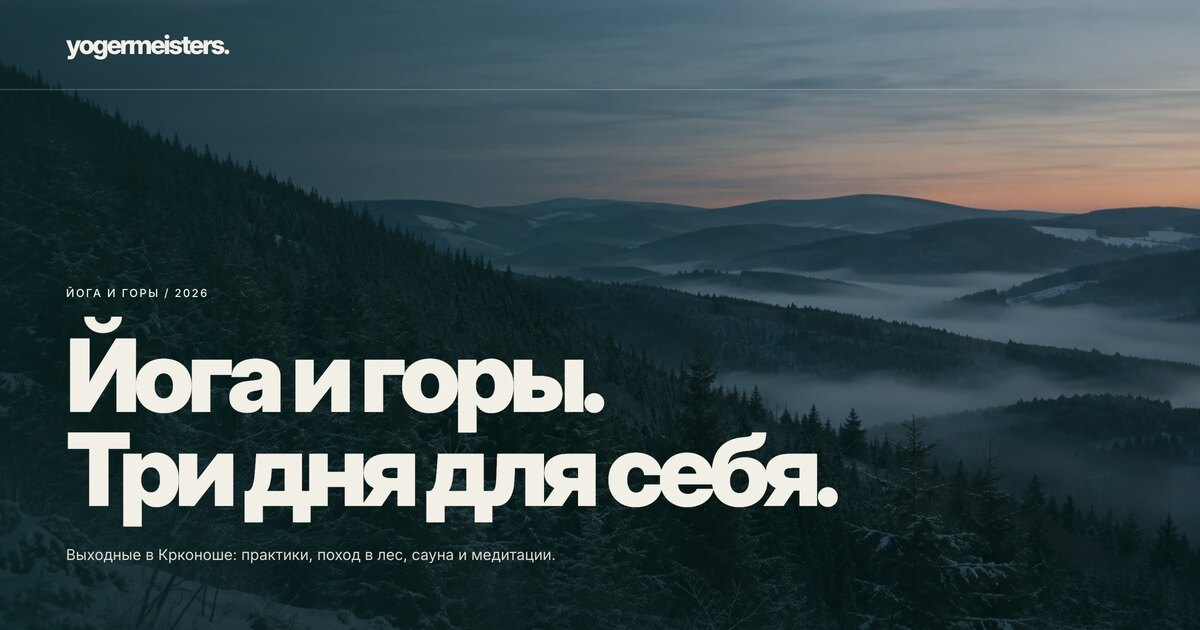
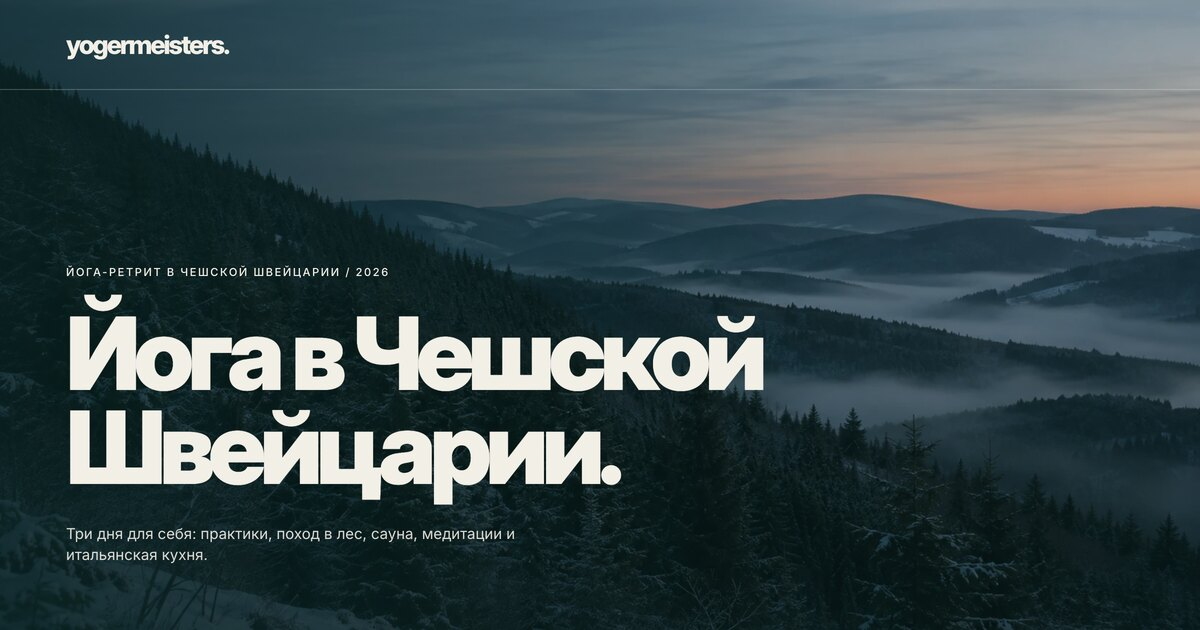
feat: rename Czech retreat to Bohemian Switzerland and update price and meals

Changed region(s): [[0.0308, 0.4222, 0.7092, 0.9048]]

diff --git a/shared/retreats/mountains-experience.ts b/shared/retreats/mountains-experience.ts
@@ -28,11 +28,11 @@ function day(
 }
 
 export const mountainsRussianExperience: RetreatExperience = {
-  priceOffer: { regularPrice: '6,399 CZK', label: 'Early bird', note: '5,699 CZK вместо 6,399 CZK - цена по предложению' },
-  heroTitle: 'Йога и горы.\nТри дня для себя.',
-  heroText: 'Выходные в Крконоше: практики, поход в лес, сауна и медитации.',
-  introTitle: 'В горы.\nК себе.',
-  introText: 'Утром - йога и пранаяма, днём - лес и время для себя, вечером - сауна, дыхание и медитация.',
+  priceOffer: { regularPrice: '€350', label: 'Early bird', note: '€275 вместо €350 - цена по предложению' },
+  heroTitle: 'Йога в Чешской\nШвейцарии.',
+  heroText: 'Три дня для себя: практики, поход в лес, сауна, медитации и итальянская кухня.',
+  introTitle: 'Перезагрузка\nна природе',
+  introText: 'Утром - йога и пранаяма, днём - лес и время для себя, вечером - сауна, дыхание и медитация. А за столом - итальянская кухня.',
   reasons: [
     {
       title: 'Поход и практика в лесу',
@@ -51,7 +51,7 @@ export const mountainsRussianExperience: RetreatExperience = {
     },
   ],
   stayTitle: 'Где будем жить',
-  stayText: 'Живём в горах Крконоше. Проживание входит в стоимость, подробности о доме и размещении расскажу в Telegram.',
+  stayText: 'Живём в Рыбниште (Rybniště), в Чешской Швейцарии. Проживание входит в стоимость, подробности о доме и размещении расскажу в Telegram.',
   stayImages: [
     photo('moon', 'Молодая луна над тёмным горным хребтом'),
     photo('dreamcatcher', 'Ловец снов в каплях росы, за ним туманный луг и лес'),
@@ -61,7 +61,7 @@ export const mountainsRussianExperience: RetreatExperience = {
     included: [
       'Проживание.',
       'Все практики йоги, пранаямы и медитации по программе.',
-      'Питание по программе: ужин, обед и два завтрака.',
+      'Питание с акцентом на итальянскую кухню: два ужина, обед и два завтрака.',
       'Поход и практика в лесу.',
       'Сауна, аюрведическая практика красоты и молодости.',
     ],
@@ -81,6 +81,7 @@ export const mountainsRussianExperience: RetreatExperience = {
       ['14:00', 'Обед.'],
       ['День', 'Время для себя.'],
       ['17:00', 'Сауна, аюрведическая практика красоты и молодости, теория.'],
+      ['Вечер', 'Ужин.'],
       ['20:40', 'Дыхательная практика, психо-энергетическая практика.'],
     ]),
     day('closing', '2026-12-13', 'Закрытие', video('pranayama', 'Участницы ретрита выполняют пранаяму'), [
@@ -90,17 +91,17 @@ export const mountainsRussianExperience: RetreatExperience = {
     ]),
   ],
   bookingTitle: 'Едешь\nс нами?',
-  bookingText: 'Встречаемся в Крконоше 11-13 декабря. Напиши мне в Telegram, расскажу о местах и размещении. Оставляю за собой право менять программу :)',
-  bookingSteps: ['Напиши в Telegram: «Хочу в горы».', 'Уточни наличие мест и размещение.', 'Получи условия оплаты и подтверждение бронирования.'],
-  bookingNote: 'Early bird - 5,699 CZK, обычная цена - 6,399 CZK. Программа может меняться.',
+  bookingText: 'Встречаемся в Чешской Швейцарии 11-13 декабря. Напиши мне в Telegram, расскажу о местах и размещении. Оставляю за собой право менять программу :)',
+  bookingSteps: ['Напиши в Telegram: «Хочу в Чешскую Швейцарию».', 'Уточни наличие мест и размещение.', 'Получи условия оплаты и подтверждение бронирования.'],
+  bookingNote: 'Early bird - €275, обычная цена - €350. Программа может меняться.',
 };
 
 export const mountainsEnglishExperience: RetreatExperience = {
-  priceOffer: { regularPrice: '6,399 CZK', label: 'Early bird', note: '5,699 CZK instead of 6,399 CZK with our' },
-  heroTitle: 'Yoga and mountains.\nThree days for you.',
-  heroText: 'A weekend in Krkonose: yoga, a forest hike, sauna and meditation.',
-  introTitle: 'To the mountains.\nBack to yourself.',
-  introText: 'Yoga and pranayama in the morning, forest and free time by day, sauna, breathwork and meditation in the evening.',
+  priceOffer: { regularPrice: '€350', label: 'Early bird', note: '€275 instead of €350 with our' },
+  heroTitle: 'Yoga in Bohemian\nSwitzerland.',
+  heroText: 'Three days for yourself: yoga, a forest hike, sauna, meditation and Italian cuisine.',
+  introTitle: 'A reset\nin nature',
+  introText: 'Yoga and pranayama in the morning, forest and free time by day, sauna, breathwork and meditation in the evening. And Italian cuisine at the table.',
   reasons: [
     {
       title: 'A hike and forest practice',
@@ -119,7 +120,7 @@ export const mountainsEnglishExperience: RetreatExperience = {
     },
   ],
   stayTitle: 'Where we’ll stay',
-  stayText: 'We stay in the Krkonose mountains. Accommodation is included in the price, and I’ll share details about the house and rooms on Telegram.',
+  stayText: 'We stay in Rybniště, Bohemian Switzerland. Accommodation is included in the price, and I’ll share details about the house and rooms on Telegram.',
   stayImages: [
     photo('moon', 'A crescent moon above a dark mountain ridge'),
     photo('dreamcatcher', 'A dreamcatcher covered in dew with a misty meadow and forest behind it'),
@@ -129,7 +130,7 @@ export const mountainsEnglishExperience: RetreatExperience = {
     included: [
       'Accommodation.',
       'All yoga, pranayama and meditation practices on the programme.',
-      'Meals on the programme: a dinner, a lunch and two breakfasts.',
+      'Meals with a focus on Italian cuisine: two dinners, a lunch and two breakfasts.',
       'The hike and forest practice.',
       'Sauna and the Ayurvedic beauty and youth practice.',
     ],
@@ -149,6 +150,7 @@ export const mountainsEnglishExperience: RetreatExperience = {
       ['14:00', 'Lunch.'],
       ['Daytime', 'Time for yourself.'],
       ['17:00', 'Sauna, Ayurvedic beauty and youth practice, theory.'],
+      ['Evening', 'Dinner.'],
       ['20:40', 'Breathwork and psycho-energetic practice.'],
     ]),
     day('closing', '2026-12-13', 'Closing', video('pranayama', 'Retreat participants practising pranayama'), [
@@ -158,7 +160,7 @@ export const mountainsEnglishExperience: RetreatExperience = {
     ]),
   ],
   bookingTitle: 'Coming\nwith us?',
-  bookingText: 'Join us in Krkonose on 11-13 December. Message me on Telegram about availability and accommodation. I reserve the right to change the programme :)',
-  bookingSteps: ['Write on Telegram: “I’d like to join the mountains retreat”.', 'Ask about availability and accommodation.', 'Receive payment terms and booking confirmation.'],
-  bookingNote: 'Early bird: 5,699 CZK, regular price: 6,399 CZK. The programme may change.',
+  bookingText: 'Join us in Bohemian Switzerland on 11-13 December. Message me on Telegram about availability and accommodation. I reserve the right to change the programme :)',
+  bookingSteps: ['Write on Telegram: “I’d like to join the Bohemian Switzerland retreat”.', 'Ask about availability and accommodation.', 'Receive payment terms and booking confirmation.'],
+  bookingNote: 'Early bird: €275, regular price: €350. The programme may change.',
 };

diff --git a/shared/retreats/mountains.ts b/shared/retreats/mountains.ts
@@ -5,19 +5,19 @@ export const mountainsRetreat: RetreatSeed = {
   id: 2,
   slug: 'yoga-and-mountains-retreat',
   status: 'active',
-  title: 'Yoga & Mountains Retreat',
-  location: 'Krkonose, Czech Republic',
+  title: 'Bohemian Switzerland Yoga Retreat',
+  location: 'Rybniště, Czech Republic',
   startDate: '2026-12-11',
   endDate: '2026-12-13',
   dateLabel: '11-13 December 2026',
-  price: '5,699 CZK early / 6,399 CZK',
+  price: '€275 Early Bird / €350',
   bookingUrl: 'https://t.me/AnastasiaPagliacci',
   coverImage: '/assets/retreats/mountains/mountains-dawn-cover.webp',
   experience: mountainsEnglishExperience,
   translations: {
     ru: {
-      title: 'Йога и Горы',
-      location: 'Крконоше, Чехия',
+      title: 'Йога-ретрит в Чешской Швейцарии',
+      location: 'Рыбниште, Чехия',
       dateLabel: '11-13 декабря 2026',
       experience: mountainsRussianExperience,
     },

diff --git a/server/retreat-experience.test.ts b/server/retreat-experience.test.ts
@@ -88,7 +88,7 @@ describe('structured retreat experience', () => {
       expect(retreat.experience.days.map((day: { readonly date: string }): string => day.date))
         .toEqual(['2026-12-11', '2026-12-12', '2026-12-13']);
       expect(retreat.experience.days.map((day: { readonly schedule: readonly unknown[] }): number => day.schedule.length))
-        .toEqual([4, 7, 3]);
+        .toEqual([4, 8, 3]);
       expect(retreat.experience.days[1].video).toBeUndefined();
       expect(retreat.experience.days[1].images[0].src).toBe('/assets/retreats/mountains/mountains-forest-trail.webp');
       expect(retreat.experience.days[2].video.src).toBe('/assets/retreats/mountains/mountains-pranayama.mp4');

diff --git a/server/page-meta.test.ts b/server/page-meta.test.ts
@@ -65,7 +65,7 @@ describe('link previews', () => {
     const draft = await resolvePageMeta(`/retreats/${seed.slug}`, createRepository(async () => [{ ...seed, status: 'draft' }]));
     expect(draft.imagePath).toBe('/assets/og/home.jpg');
     const fallback = await resolvePageMeta(`/retreats/${seed.slug}`, createRepository(async () => { throw new Error('down'); }));
-    expect(fallback.title).toBe('Йога и Горы | Yogermeisters');
+    expect(fallback.title).toBe('Йога-ретрит в Чешской Швейцарии | Yogermeisters');
     expect((await resolvePageMeta('/retreats/unknown')).imagePath).toBe('/assets/og/home.jpg');
   });
 });

diff --git a/homepage-v3/sections/retreats/RetreatsSection.tsx b/homepage-v3/sections/retreats/RetreatsSection.tsx
@@ -76,8 +76,8 @@ const RETREAT_SLOTS: readonly RetreatSlot[] = [
     slug: 'yoga-and-mountains-retreat',
     image: '/assets/retreats/mountains/mountains-dawn-cover.webp',
     alt: {
-      ru: 'Рассвет над заснеженным еловым лесом и горами',
-      en: 'Dawn over a snowy spruce forest and mountains',
+      ru: 'Рассвет над заснеженным еловым лесом и холмами',
+      en: 'Dawn over a snowy spruce forest and hills',
     },
   },
 ];

diff --git a/docs/retreats.md b/docs/retreats.md
@@ -22,7 +22,7 @@
 - `shared/retreats/cirali.ts` — ретрит Чиралы: 1–7 мая 2027, €720 Early Bird / €790
 - `shared/retreats/cirali-experience.ts` — программа Чиралы и содержание визуального шаблона на RU/EN
 - `shared/retreats/nepal.ts` — ретрит Непал
-- `shared/retreats/mountains.ts` - ретрит «Йога и Горы»: 11-13 декабря 2026, 5,699 CZK early / 6,399 CZK
+- `shared/retreats/mountains.ts` - «Йога-ретрит в Чешской Швейцарии»: 11-13 декабря 2026, €275 Early Bird / €350
 - `shared/retreats/mountains-experience.ts` - программа и содержание горного ретрита на RU/EN
 - `shared/retreats/sri-lanka.ts` — Шри-Ланка, программа и переводы RU/EN
 - `shared/retreats/experience.ts` — структура визуального лендинга
@@ -133,7 +133,7 @@ npm run build
 
 В программе поддерживается необязательный `day.video: { src, poster, label }`: локальный MP4 и постер из `/assets/`. Ролик автоматически проигрывается без звука по кругу при раскрытии дня, без плеерных кнопок и видимой подписи; при закрытии дня останавливается. При `layout: text` и пустом `images` день показывается без изображения и без подстановки повторного фото. В Чиралы ролик расположен в третьем дне; фото Ликийской тропы — в четвёртом, в пятом дне — панорама побережья, в шестом — горизонтальная зацикленная вставка с огнями Химеры (первые 2 секунды исходного ролика, кадр 704×396, без аудио). Каждое изображение используется на странице один раз. Для публикации сначала нужен GitHub/Railway-деплой схемы видео и файлов, затем обновление записи через admin API.
 
-«Йога и Горы» использует тот же `RetreatExperiencePage`. Медиа лежат в `client/public/assets/retreats/mountains/`: обложка `dawn-cover` и лесная тропа второго дня `forest-trail` сгенерированы, третий день показывает видео пранаямы. Заголовок программы и эмодзи в составе стоимости заданы в `MOUNTAINS_COPY`.
+«Йога-ретрит в Чешской Швейцарии» использует тот же `RetreatExperiencePage`. Медиа лежат в `client/public/assets/retreats/mountains/`: обложка `dawn-cover` и лесная тропа второго дня `forest-trail` сгенерированы, третий день показывает видео пранаямы. Заголовок программы и эмодзи в составе стоимости заданы в `MOUNTAINS_COPY`.
 
 ## Превью ссылок
 
